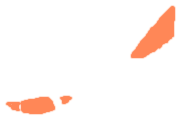
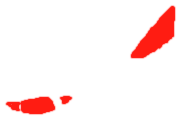
Menu Satan: redder eyes
His glowing eyes on the main menu were orange-red; they are now a deep red
(satan-eyes.webp recoloured, same painted shape), and the glow around them
and the flare on click follow the same red.

Claude-Session: https://claude.ai/code/session_01KFrk8hmspfzspf5mg93T8n

Changed region(s): [[0.7182, 0.05, 0.9945, 0.5], [0.0276, 0.8, 0.3039, 0.975], [0.3315, 0.775, 0.4144, 0.875]]

diff --git a/styles.css b/styles.css
@@ -11666,7 +11666,7 @@ body:is(.mobile-arcade, .native-arcade) .collection-screen .codex-cover .codex-n
    each fills the figure's head box (meta.head, same size), so it sits exactly on the eyes. The bloom never scales (a scale would pull it off the eyes);
    it grows by blur instead, and it breathes by brightness so the hover fade stays smooth. */
 .menu-fig-satan .fig-eyes {
-  filter: drop-shadow(0 0 1px rgba(255, 70, 40, 0.95)) drop-shadow(0 0 3px rgba(220, 20, 10, 0.55)) !important;
+  filter: drop-shadow(0 0 1px rgba(255, 30, 20, 0.95)) drop-shadow(0 0 3px rgba(210, 10, 5, 0.6)) !important;
   transition: opacity 0.5s ease-out, filter 0.45s ease;
 }
 
@@ -11695,7 +11695,7 @@ body:is(.mobile-arcade, .native-arcade) .collection-screen .codex-cover .codex-n
 
 .menu-fig-satan.eyes-flare .fig-eyes {
   opacity: 1;
-  filter: brightness(1.35) drop-shadow(0 0 2px #ff9a80) drop-shadow(0 0 5px rgba(255, 40, 20, 0.8)) !important;
+  filter: brightness(1.35) drop-shadow(0 0 2px #ff4a3a) drop-shadow(0 0 5px rgba(255, 40, 20, 0.8)) !important;
 }
 
 .menu-fig-satan.eyes-flare .fig-eyes-bloom {
